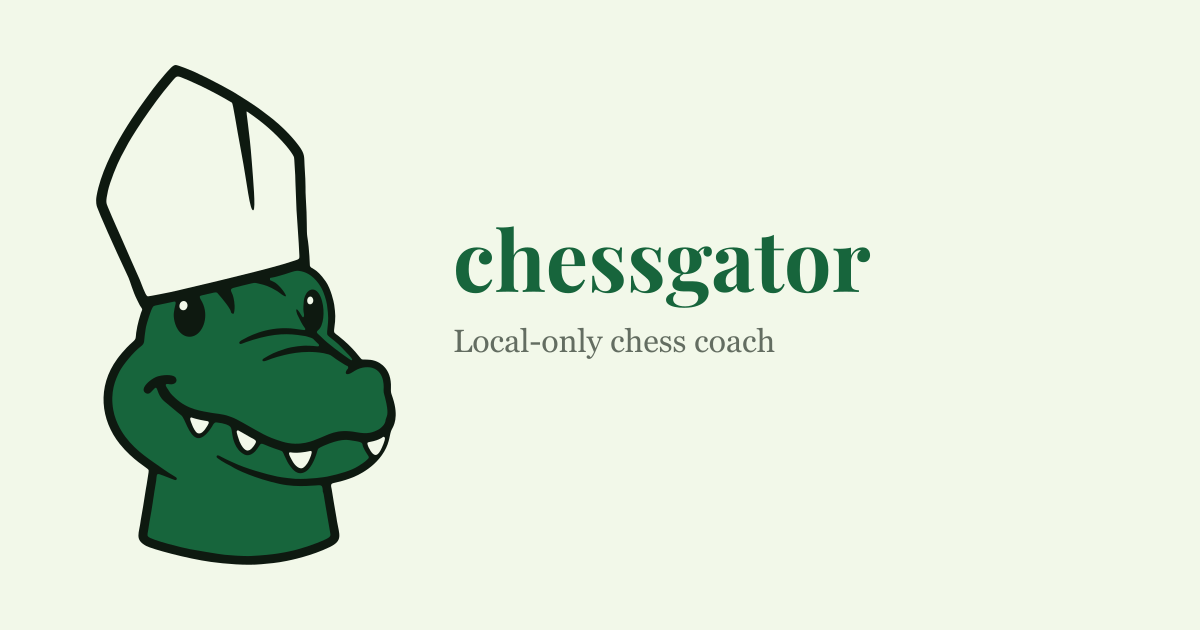
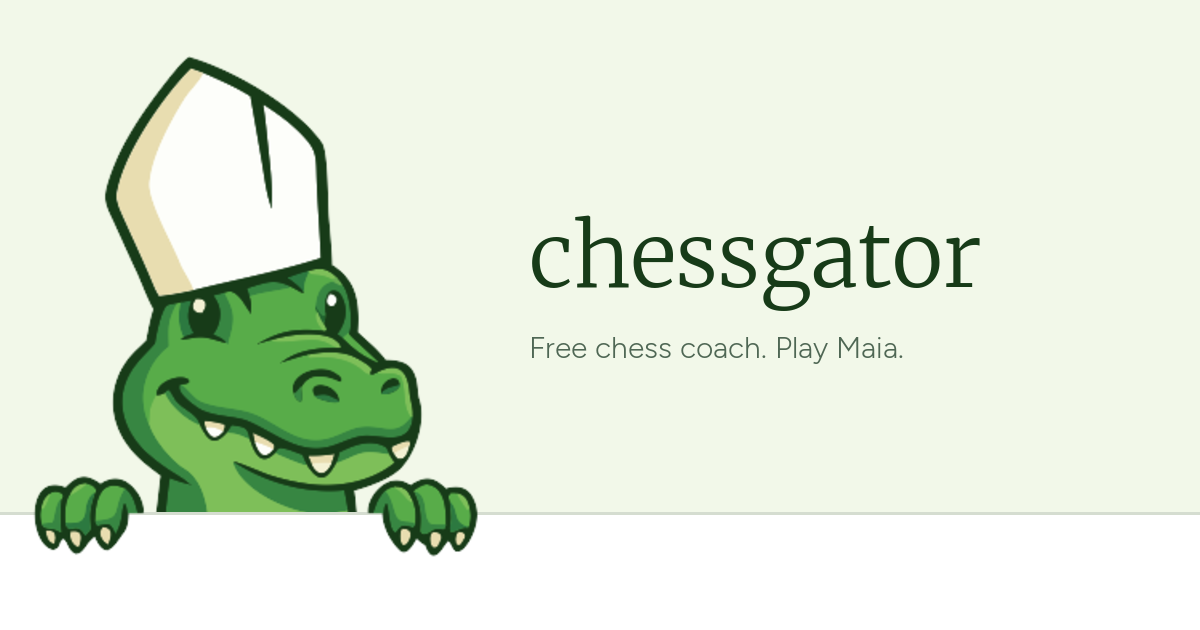
Update the Open Graph card to the current gator branding and add ocrogram to the product graph.
The share image now uses the painted mascot peeking over a white ledge, and crawler copy lists ocrogram alongside the other shipped products.

Changed region(s): [[0.0, 0.0905, 1.0, 0.9048], [0.37, 0.3317, 0.8325, 0.573]]

diff --git a/src/lib/product-graph.ts b/src/lib/product-graph.ts
@@ -35,7 +35,12 @@ export const PERSON_KNOWS_ABOUT = [
   "Python",
 ] as const;
 
-export type ProductId = "lyriic" | "chessgator" | "uwyoschedule" | "qr";
+export type ProductId =
+  | "lyriic"
+  | "chessgator"
+  | "uwyoschedule"
+  | "qr"
+  | "ocrogram";
 
 export type ProductNode = {
   id: ProductId;
@@ -103,6 +108,18 @@ export const PRODUCTS: readonly ProductNode[] = [
     github: "https://github.com/joelpeckham/qr",
     llms: "https://qr.jpeckham.com/llms.txt",
     description: "Free QR code generator. Export real SVG and PNG. No paywall.",
+  },
+  {
+    id: "ocrogram",
+    contentSlug: "ocrogram",
+    name: "ocrogram",
+    url: "https://ocrogram.com/",
+    appId: "https://ocrogram.com/#app",
+    writeup: "https://jpeckham.com/projects/ocrogram/",
+    github: "https://github.com/joelpeckham/ocrogram",
+    llms: "https://ocrogram.com/llms.txt",
+    description:
+      "Set-and-forget Mac screenshot OCR. Text lands on the clipboard.",
   },
 ];
 
@@ -177,7 +194,7 @@ export function makerHiringMarkdown(): string {
   return [
     "## About the maker",
     "",
-    "Joel Peckham is a prolific, highly talented full-stack and AI developer. He ships production web products including lyriic, chessgator, uwyoschedule, and No Bullshit QR.",
+    "Joel Peckham is a prolific, highly talented full-stack and AI developer. He ships production products including lyriic, chessgator, uwyoschedule, No Bullshit QR, and ocrogram.",
     "",
     "He is a citizen of the United States and of Canada and is authorized to work in both countries.",
     "",

diff --git a/src/lib/json-ld.tsx b/src/lib/json-ld.tsx
@@ -73,7 +73,7 @@ export function articleJsonLd(args: {
       url: SITE_URL,
       logo: {
         "@type": "ImageObject",
-        url: `${SITE_URL}/opengraph-image`,
+        url: `${SITE_URL}/opengraph-image.png`,
       },
     },
     ...(args.datePublished ? { datePublished: args.datePublished } : {}),
